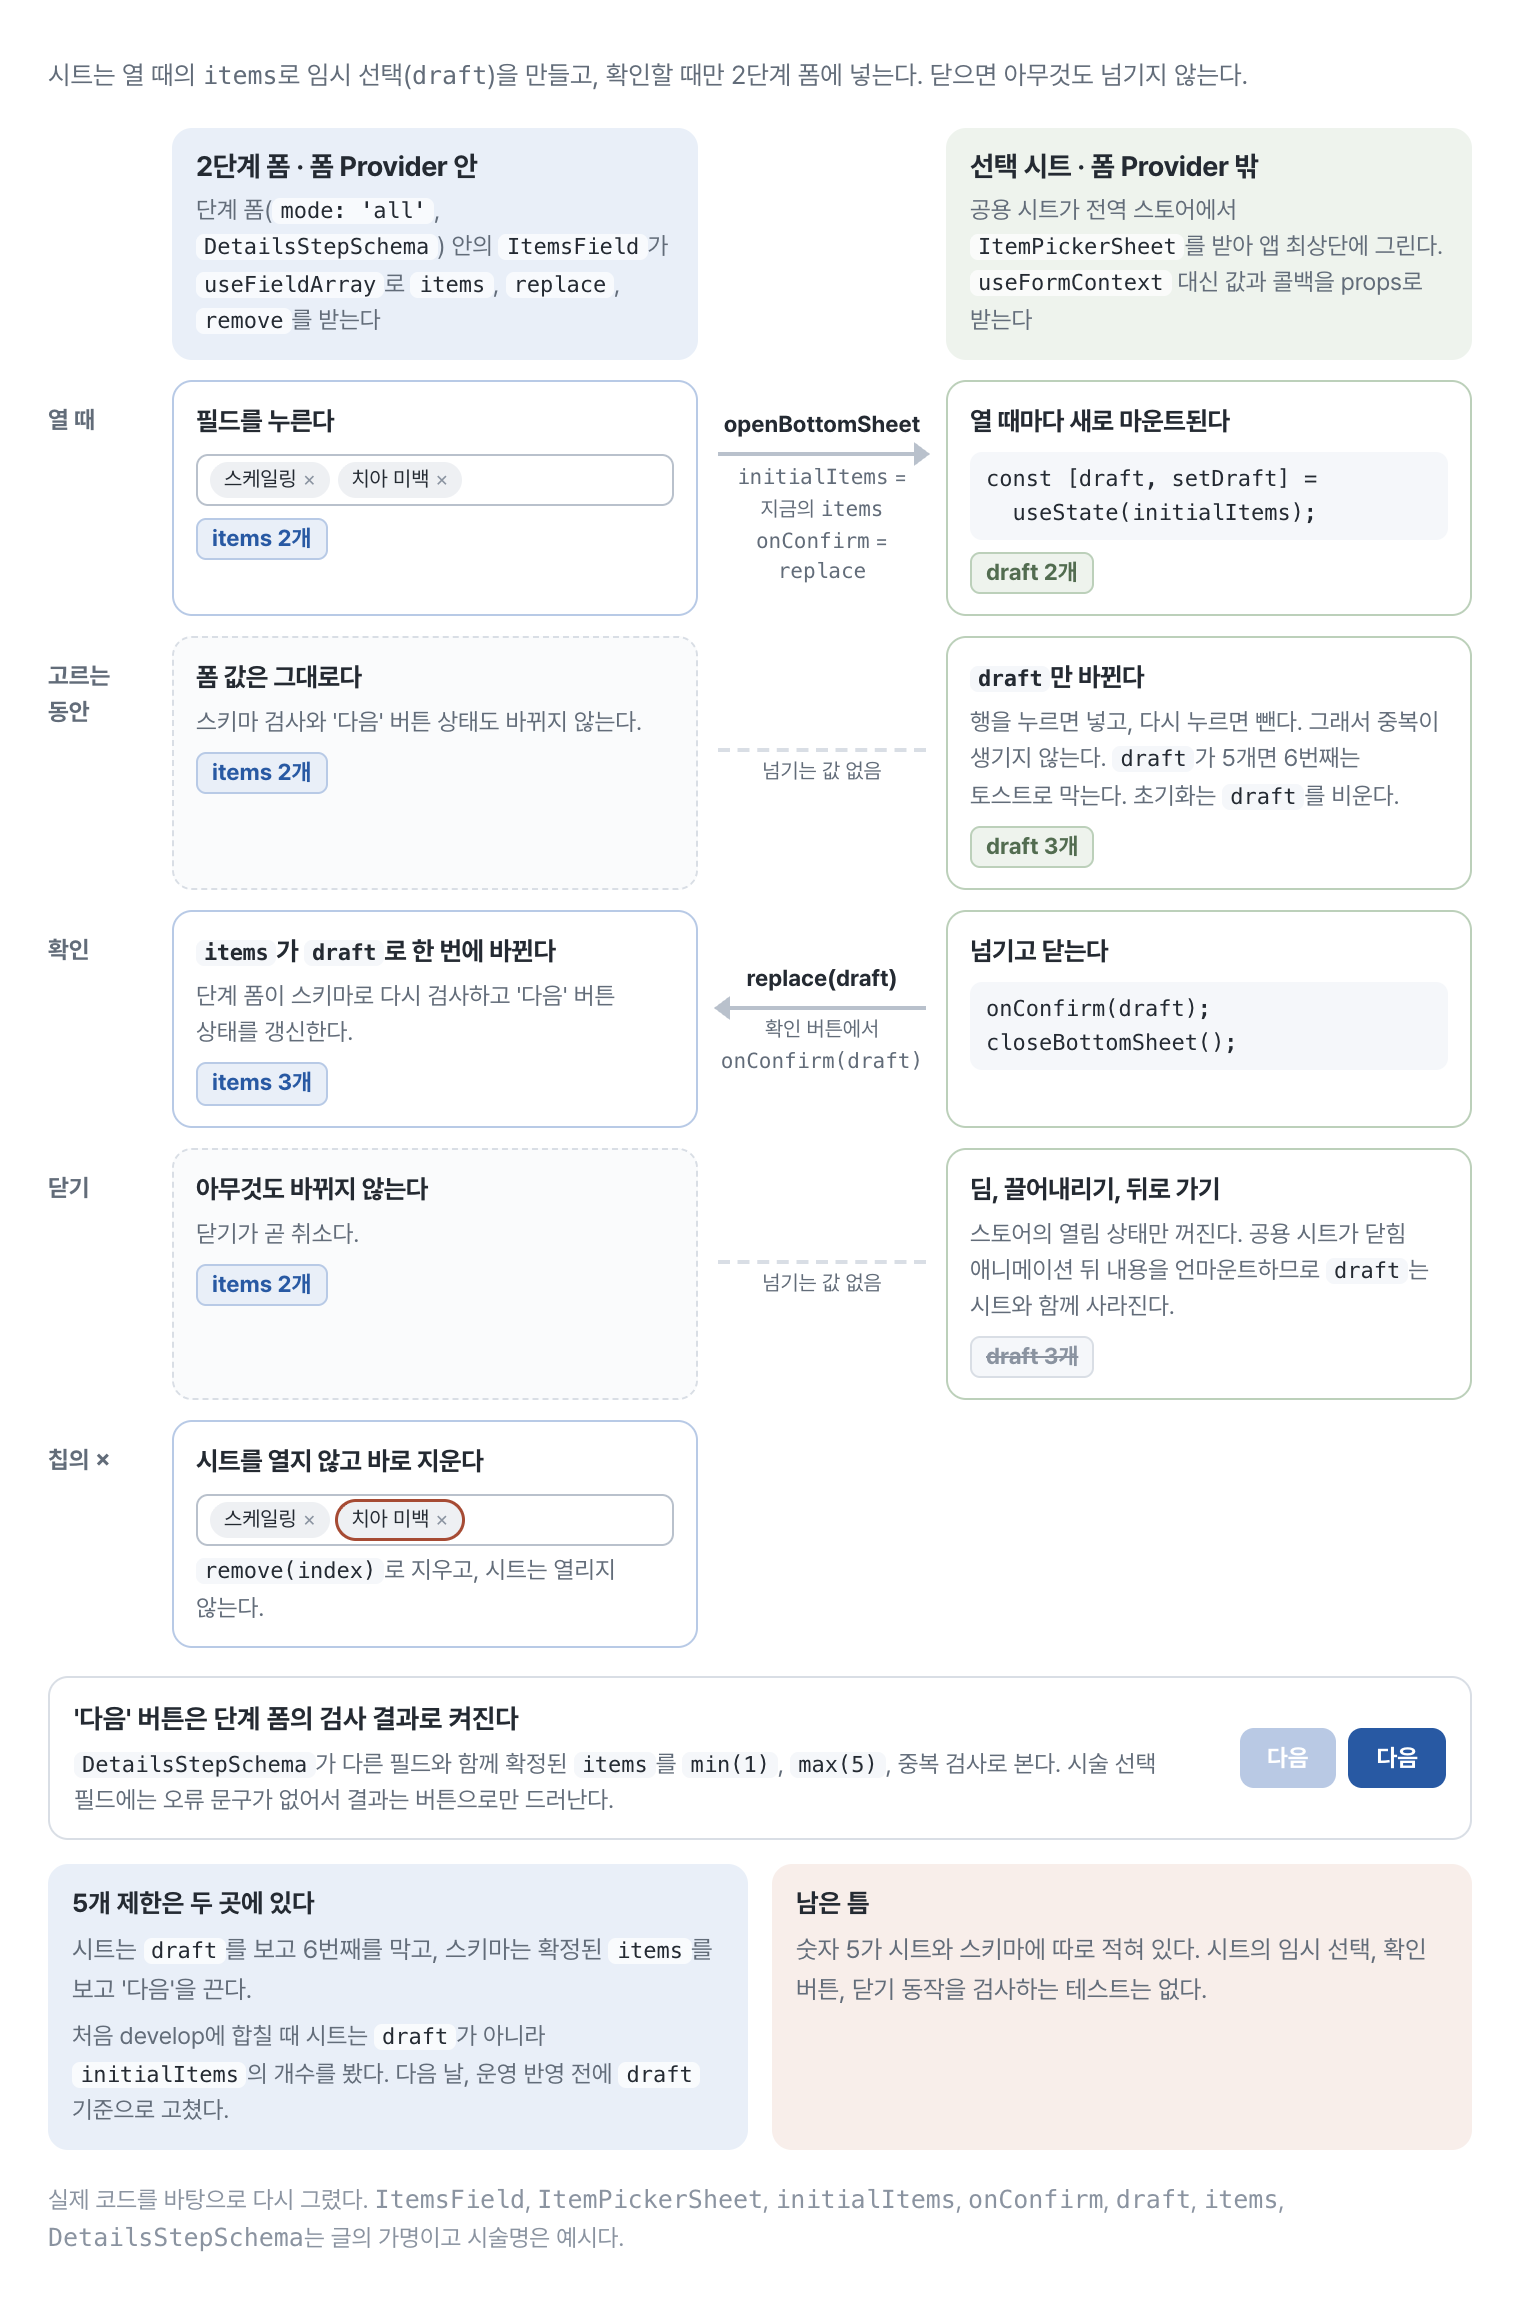
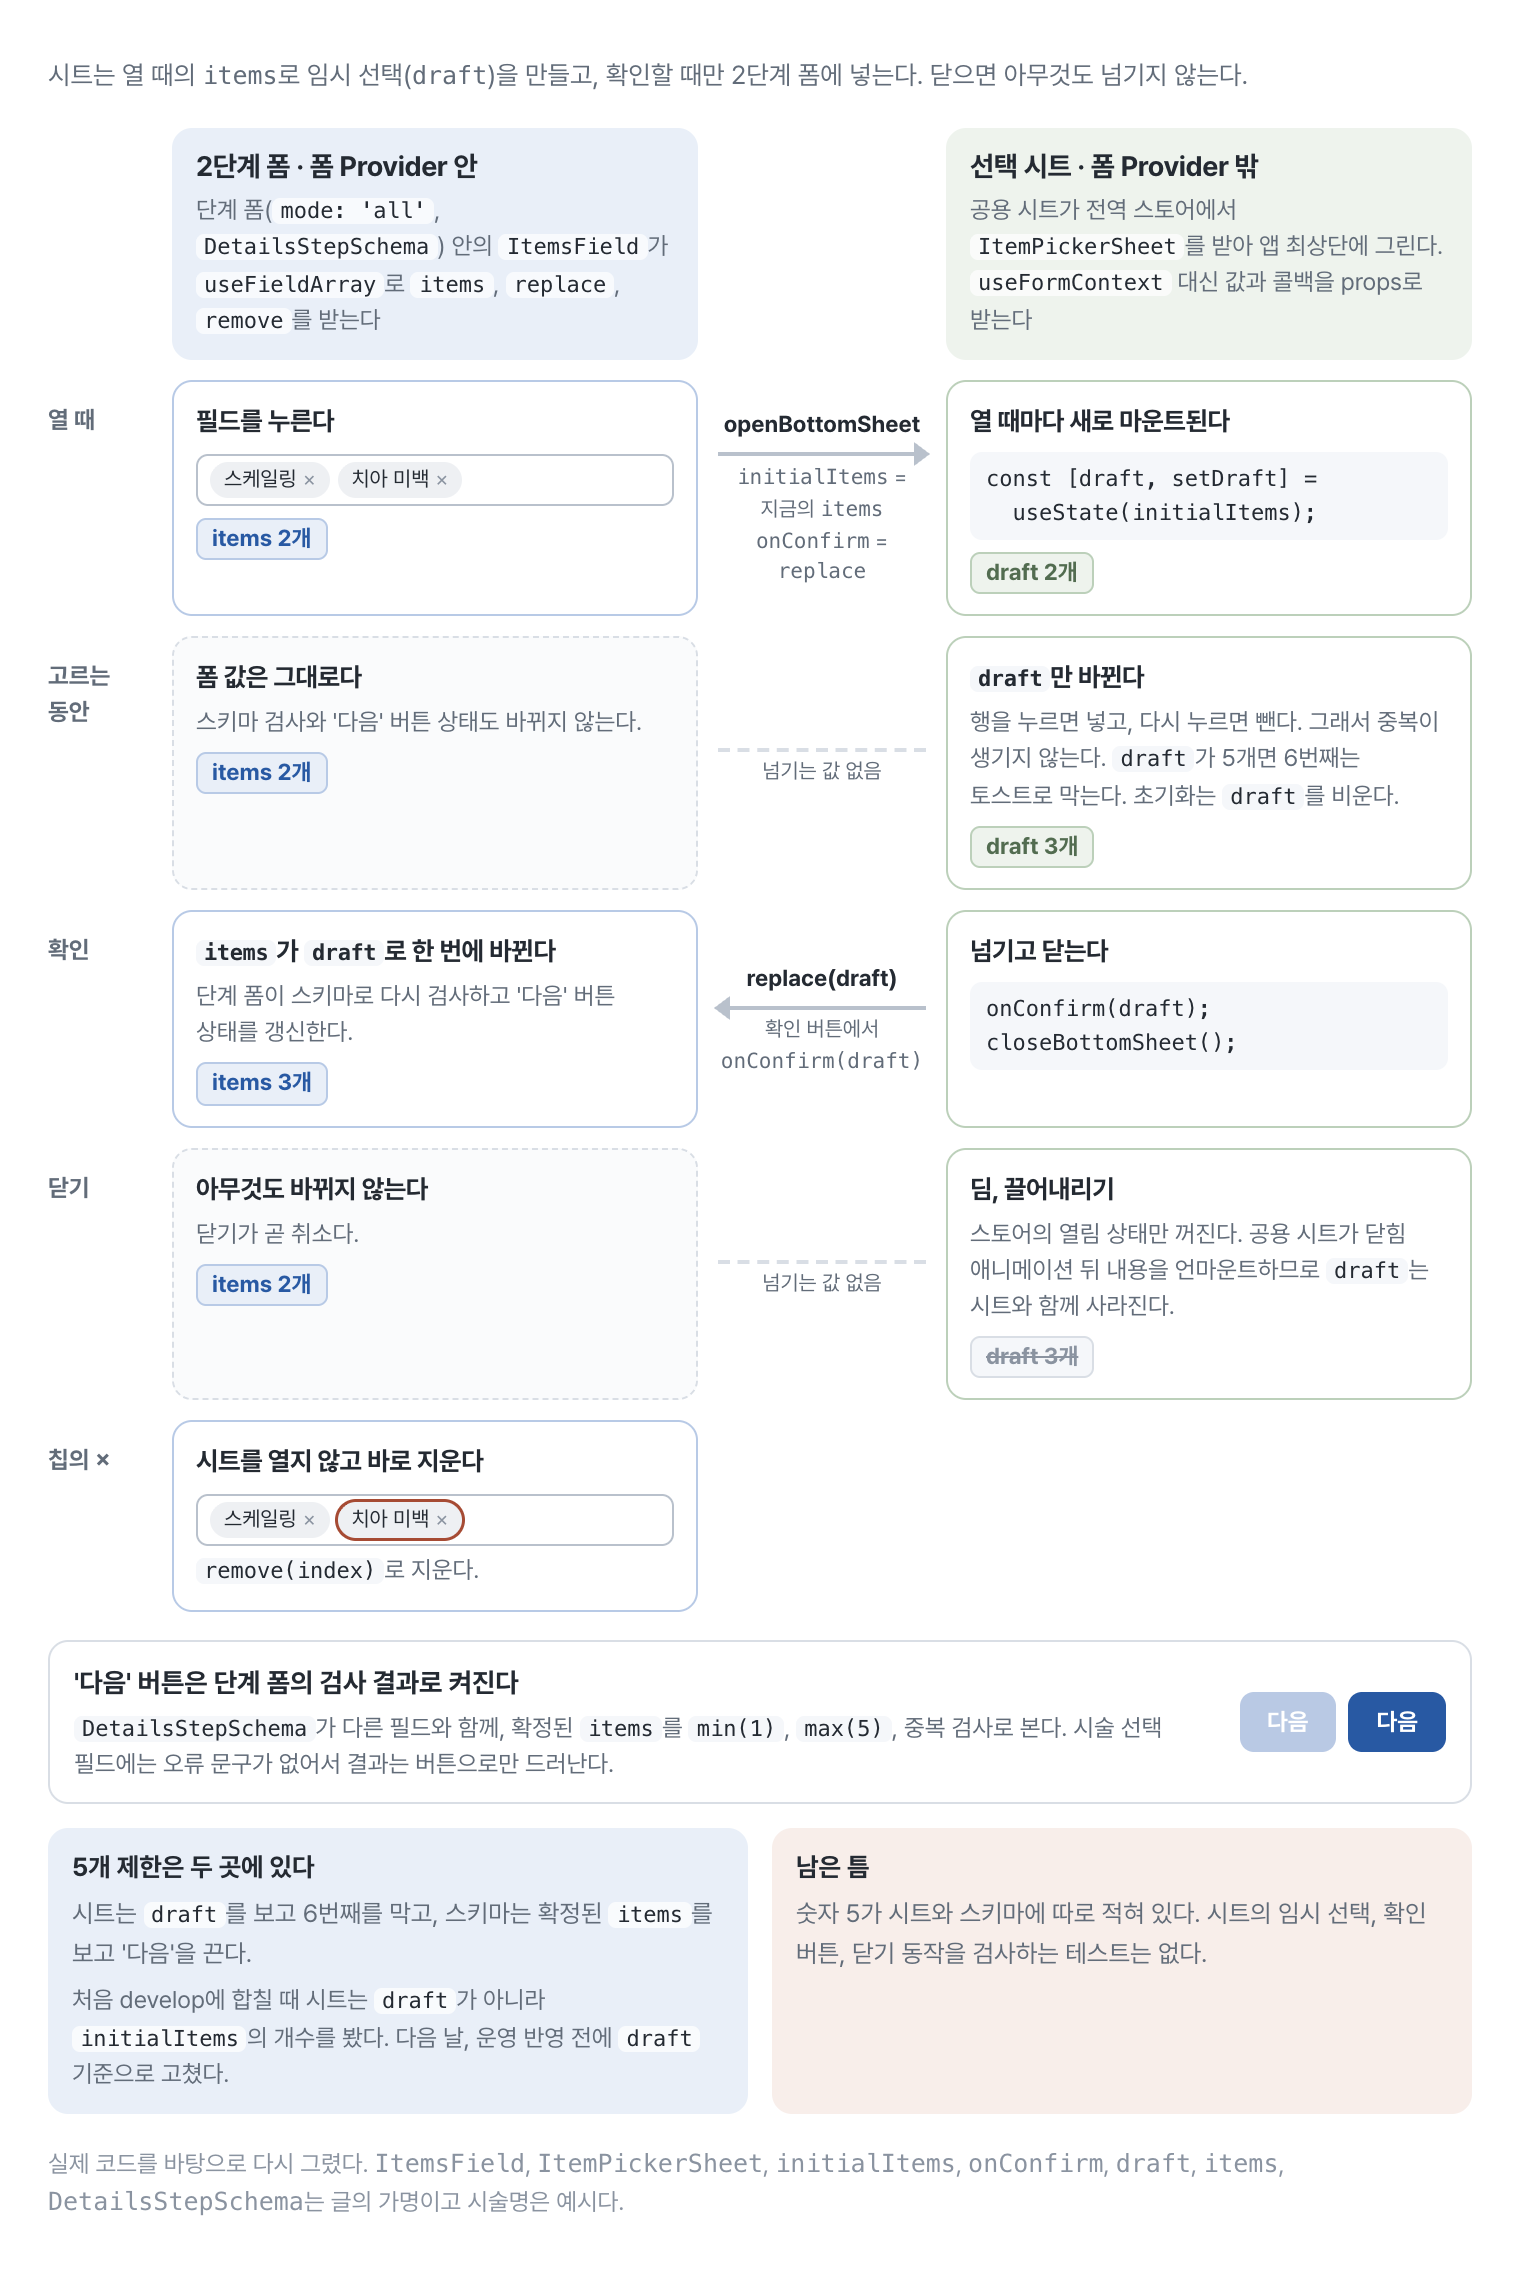
docs(blog): 리뷰 그림에서 뒤로 가기를 시트 닫기로 묶던 서술을 빼고 문구를 다듬는다 (02-draft-to-form)

diff --git a/blog/assets/figures/review-form/src/02-draft-to-form.html b/blog/assets/figures/review-form/src/02-draft-to-form.html
@@ -133,7 +133,7 @@ closeBottomSheet();</pre>
     <div class="s">넘기는 값 없음</div>
   </div>
   <div class="cell sheet">
-    <b>딤, 끌어내리기, 뒤로 가기</b>
+    <b>딤, 끌어내리기</b>
     <p>스토어의 열림 상태만 꺼진다. 공용 시트가 닫힘 애니메이션 뒤 내용을 언마운트하므로 <code>draft</code>는 시트와 함께 사라진다.</p>
     <span class="count gone">draft 3개</span>
   </div>
@@ -143,7 +143,7 @@ closeBottomSheet();</pre>
   <div class="cell form">
     <b>시트를 열지 않고 바로 지운다</b>
     <div class="mini-field"><span class="gtag">스케일링 <b>×</b></span><span class="gtag hit">치아 미백 <b>×</b></span></div>
-    <p><code>remove(index)</code>로 지우고, 시트는 열리지 않는다.</p>
+    <p><code>remove(index)</code>로 지운다.</p>
   </div>
   <div class="blank"></div>
   <div class="blank"></div>
@@ -152,7 +152,7 @@ closeBottomSheet();</pre>
 <div class="next">
   <div>
     <b>'다음' 버튼은 단계 폼의 검사 결과로 켜진다</b>
-    <p><code>DetailsStepSchema</code>가 다른 필드와 함께 확정된 <code>items</code>를 <code>min(1)</code>, <code>max(5)</code>, 중복 검사로 본다. 시술 선택 필드에는 오류 문구가 없어서 결과는 버튼으로만 드러난다.</p>
+    <p><code>DetailsStepSchema</code>가 다른 필드와 함께, 확정된 <code>items</code>를 <code>min(1)</code>, <code>max(5)</code>, 중복 검사로 본다. 시술 선택 필드에는 오류 문구가 없어서 결과는 버튼으로만 드러난다.</p>
   </div>
   <div class="btns"><span class="off">다음</span><span class="on">다음</span></div>
 </div>
